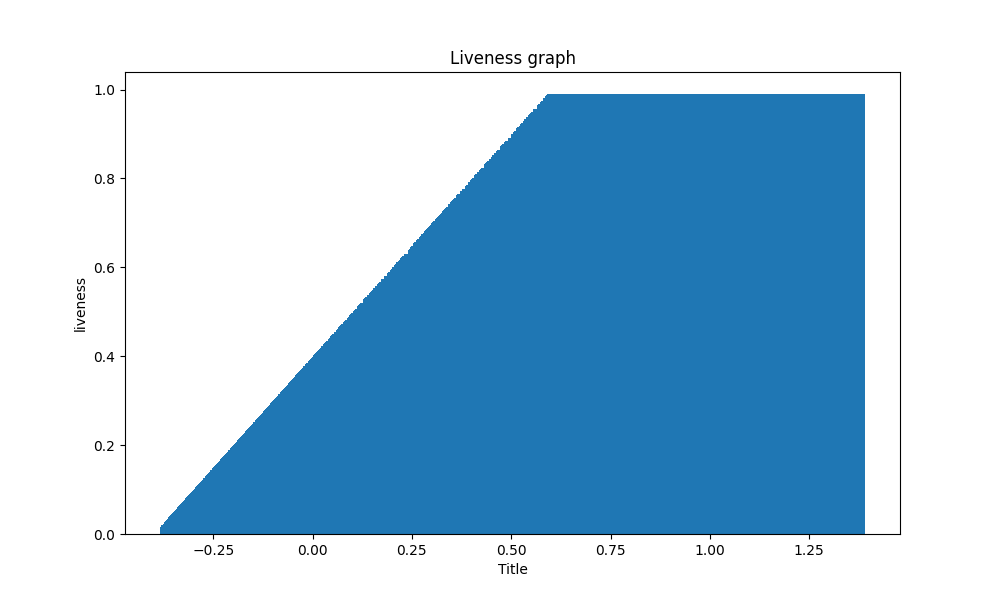
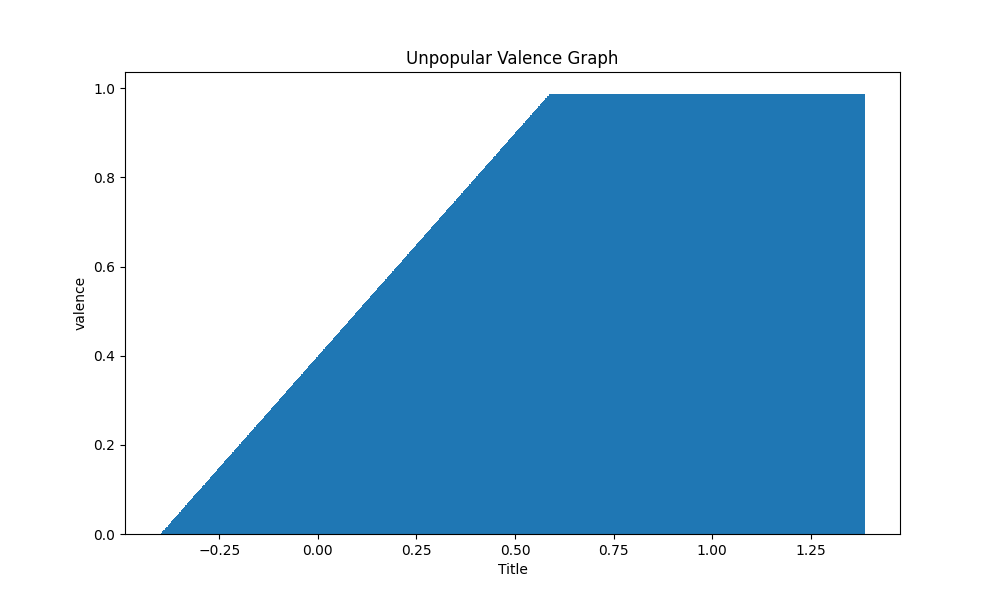
variable name changes

diff --git a/coding/unpopular/graph_valence_unpopular.py b/coding/unpopular/graph_valence_unpopular.py
@@ -2,29 +2,17 @@ import pandas as pd
 import matplotlib.pyplot as plt
 
 # Read the CSV file into a DataFrame
-#Here we go through the file 'unpopular_songs.csv' and we interpret it.
-#'latin1' represents the alphabets of western european languages which
-#means we are reading 'unpopular_songs.csv' in english.
-df = pd.read_csv("unpopular_songs.csv", encoding="latin1")
-#this closes all other open figures, in our case, the other plots
+df = pd.read_csv("unpopular_songsFixed.csv", encoding="latin1")
 plt.close("all")
 
-# Sorts 'df' by the values in the column 'energy'
+# Organize the data based on a specific column
 organized_data = df.sort_values(by='valence')
 
 # Plot the data
-#Set the parameters of the plot as (width, height)
-plt.figure(figsize=(10, 6))
-#this creates a bar graph
-#the first 'organized_data['valence']' is the data for the x axis of the bar chart
-#the second 'organized_data['valence']' is the data for the height of the bar chart
-plt.bar(organized_data['valence'], organized_data['valence'])
-#this names the x-axis
-plt.xlabel('Title')
-#this names the y-axis
-plt.ylabel('valence')
-#saves graph to files
-plt.title('Unpopular Valence Graph')
-#saves bar graph
-plt.savefig('Unpopular Liveness Bar Graph')
+plt.figure(figsize=(10, 6))  # Adjust the figure size as needed
+plt.bar(organized_data['track_name'], organized_data['valence'])
+plt.xlabel('')  # Replace 'Column Names' with a suitable label
+plt.ylabel('Valence')  # Replace 'Value' with a suitable label
+plt.title('Unpopular Valence')
+plt.xticks([])
 plt.show()

diff --git a/coding/unpopular/unpopularValenceBoxPlot.py b/coding/unpopular/unpopularValenceBoxPlot.py
@@ -1,0 +1,17 @@
+import pandas as pd
+import seaborn as sns
+import matplotlib.pyplot as plt
+
+
+# reading the csv file into the code
+df = pd.read_csv("unpopular_songsFixed.csv", encoding="latin1")
+plt.close("all")
+
+# plotting the data onto the graph
+plt.figure(figsize=(10, 6))
+# plotting the data using the BPM data as the x-axis
+sns.boxplot(data=df, x = "valence", color = "#66b3b3", linecolor="#008080", linewidth=.75)
+plt.xlabel('Valence')
+plt.title('Unpopular Valence Box Plot')
+plt.savefig('Unpopular Valence Box Plot')
+plt.show()

diff --git a/coding/top10s/boxplotTop10Valence.py b/coding/top10s/boxplotTop10Valence.py
@@ -1,0 +1,17 @@
+import pandas as pd
+import seaborn as sns
+import matplotlib.pyplot as plt
+
+
+# Read the CSV file into a DataFrame
+df = pd.read_csv("top10s.csv", encoding="latin1")
+plt.close("all")
+
+# Plotting the data onto a graph
+plt.rcParams['font.family'] = 'Arial'
+plt.figure(figsize=(10, 6))  # Adjust the figure size as needed
+sns.boxplot(data=df, x = "val", color = "#66b3b3", linecolor="#008080", linewidth=.75)
+plt.xlabel('Valence')
+plt.title('Top 10s Valence Box Plot')
+plt.savefig('Top10s Valence Box Plot')
+plt.show()
